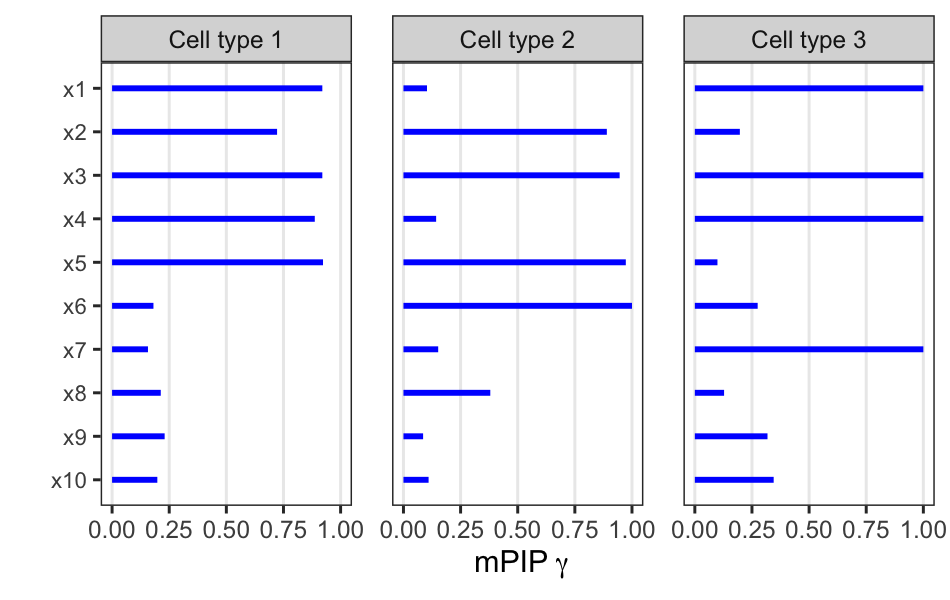
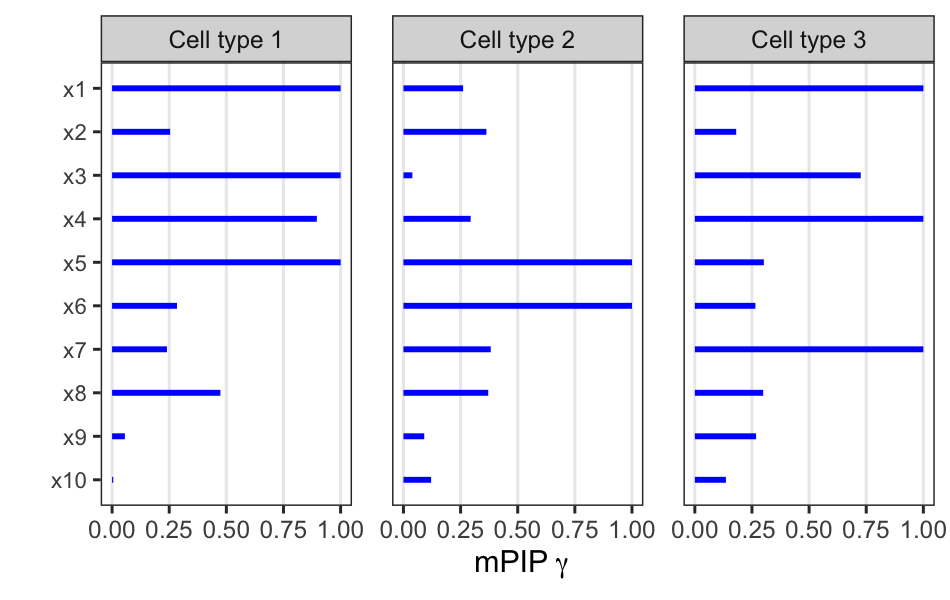
update results in README and vignette

diff --git a/README.md b/README.md
@@ -46,7 +46,6 @@ See more details in [Zhao et al. (2025)](https://doi.org/10.48550/arXiv.2509.010
 rm(list=ls())
 
 # simulate data
-set.seed(123)
 n <- 200 # subjects
 p <- 10 # variable selection predictors
 L <- 3 # cell types

diff --git a/NEWS.md b/NEWS.md
@@ -3,6 +3,7 @@
 ## GPTCM 1.1.3 (2025-09-26) (GitHub Only)
 
 * Add `testthat`
+* Update results in vignette
 
 ## GPTCM 1.1.2 (2025-09-26)
 
